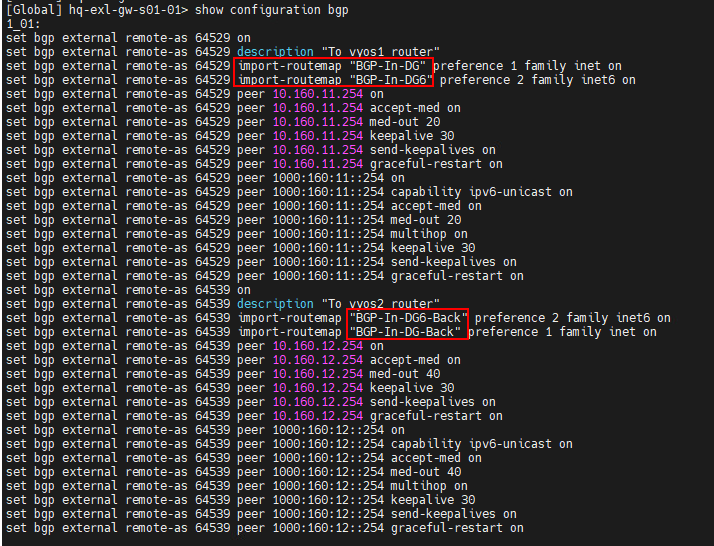
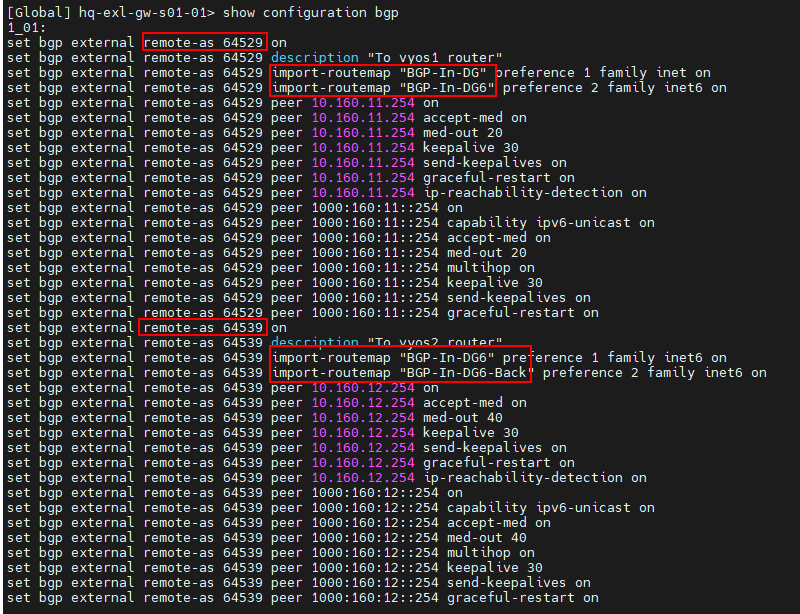
sa

diff --git a/PlayBooks/SD-WAN/SD-WAN-OnPrem-Lab-Guide.md b/PlayBooks/SD-WAN/SD-WAN-OnPrem-Lab-Guide.md
@@ -259,27 +259,28 @@ Next step is to check bgp peers and existing routes.
 - Open the Gaia Web portal for hq-exl, or connect over SSH and open Gaia Clish (gclish)
 - Review the current routes:
 
-```
+```clish
 show configuration bgp 
 ```
 
 ![show-bgp-config](./images/BGP-Configuration.png)
 
-```
+```clish
 show configuration routemaps
 ```
 
-![show-route](./images/show-route-pre-sd-wan.png)
+![show-route-maps](./images/route-maps.png)
 
 ```
 show route all
 ```
-![show-route-maps](./images/route-maps.png)
+![show-route](./images/show-route-pre-sd-wan.png)
 
-in current setup routemap define the preference.
-all routes are advertised by the "ISP" routers. here named as VYOS1 and VYOS2
+We've defined the preferences to each ISP in the route maps. 
+All routes are advertised by the "ISP" routers, here named as VYOS1 and VYOS2.
 
-- Add only what is missing:
+
+Add only what is missing:
 
 ```clish
 set bgp external remote-as 64529 peer 10.160.11.254 ip-reachability-detection on
